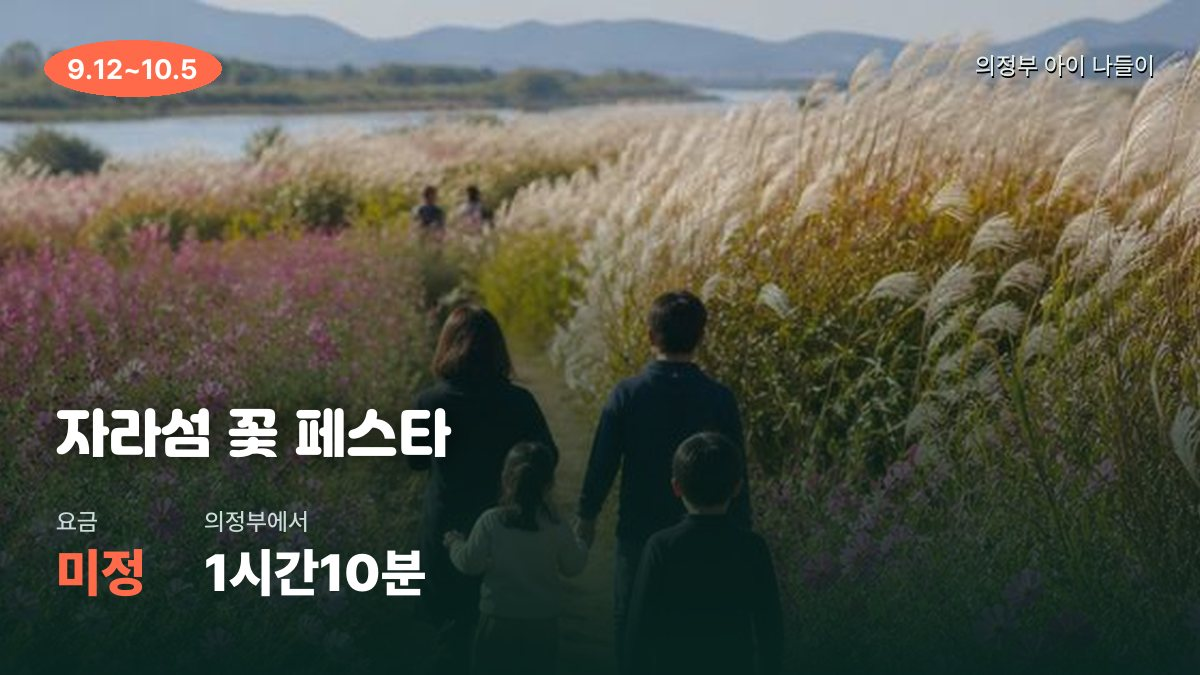
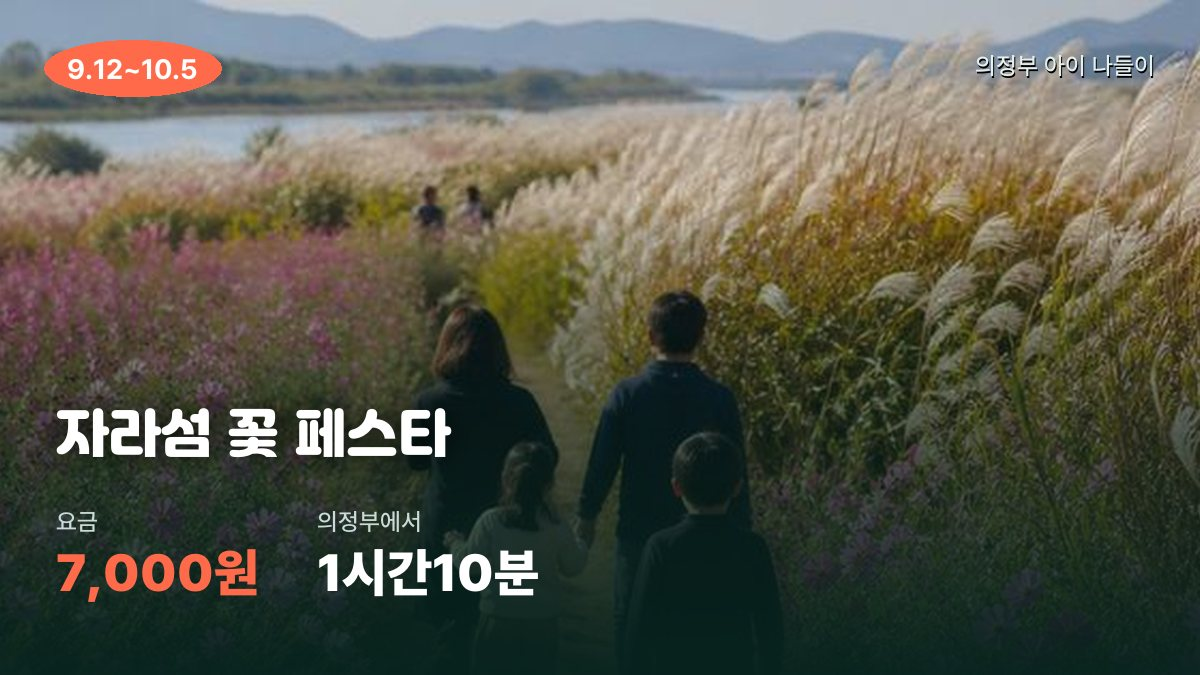
아이 나들이 08-25 — 🔜 예정 행사 18장 신설(관광공사 축제DB 90km 41건 + 의정부 연간행사표) + 카드뉴스 헤더 12장

Changed region(s): [[0.0308, 0.7467, 0.4625, 0.9022]]

diff --git a/ujb-jobs/kids-2026-08-25.html b/ujb-jobs/kids-2026-08-25.html
@@ -1,5 +1,3 @@
-<!doctype html>
-<meta charset="utf-8">
 <title>아이 나들이 브리핑 2026-08-25</title>
 <meta name="viewport" content="width=device-width, initial-scale=1">
 <style>
@@ -140,7 +138,7 @@
   <p class="notice weather">🌦 <b>오늘(화) 24~29℃ · 비 0.7mm · 강수확률 90%대</b> — <b>확률은 높지만 양은 적습니다.</b> 낮 <u>12~14시에 0.1~0.3mm짜리 지나가는 비</u>가 예보돼 있고 오후 4시부터는 그칩니다. 어제(31℃)보다 2도 낮아졌지만 <b>우산은 챙기세요</b>.<br>🌥 <b>내일(수) 24~29℃ · 비 0.1mm · 강수확률 오후 최대 61%</b> — 흐리고 늦은 오후에 소나기가 스칠 수 있는 정도입니다.<br>‼<b>주말 예보가 나빠졌습니다 — 8/29(토) 비 13mm·71%</b>, 8/30(일) 25℃·1.2mm·51%. <u>올해 마지막 물놀이 주말인데 토요일이 비</u>입니다. 야외 물놀이는 <b>일요일(8/30)로 잡고, 토요일은 실내로 돌리는 계획</b>이 안전합니다.</p>
   <p class="notice">📌 <b>오늘 챙길 것 — 어제와 정반대입니다. 무료 실내가 전부 다시 열렸습니다.</b> <em>서울시립과학관 · 로봇AI과학관(RAIM) · 경기북부어린이박물관 · 실학박물관 · 국립과천과학관 · 전곡선사박물관 · 노원 JUMP · 동두천 놀자숲</em>이 어제 월요일 휴관을 끝내고 <b>오늘부터 정상 개관</b>합니다. 낮에 비가 스치는 날이라 <b>실내가 정답</b>입니다.<br>🚫 <b>대신 오늘 닫는 곳 — 추동웰빙공원 물놀이장</b>(<u>화·수 휴장</u>). 어제 "오늘의 정답"이었던 곳이 오늘은 헛걸음입니다. <b>소요산 물놀이장도 화요일 휴장</b>이라, 오늘 무료 물놀이를 하려면 <b>남양주·구리·양주·도봉 동네 물놀이장 40여 곳</b>(월 휴무 → 오늘은 대부분 운영)으로 가야 합니다 — 출발 전 전화 확인 필수.<br>🤖 <b>오늘 추천 코스는 노원 한 동네에서 다 됩니다</b> — 서울시립과학관(무료·25~30분) → 도보권 <b>로봇AI과학관</b> → <b>노원 JUMP</b>. 어제는 셋이 통째로 쉬었지만 오늘은 셋 다 엽니다. 다만 <u>RAIM 상설전은 100% 사전예약</u>(서울공공서비스예약)이라 출발 전에 자리를 잡아야 합니다.<br>💧 <b>물놀이 시즌 카운트다운 — 남은 건 8/29~30 주말 하나뿐</b>인데 <b>토요일에 비 13mm</b>가 잡혔습니다. 소요산·한강·남양주·구리·의정부 물놀이장과 오션월드·캐리비안베이 골드시즌이 <b>8/30~31에 줄줄이 끝납니다</b> — <u>일요일 하루에 몰아넣을 각오로 지금 예매하세요</u>.<br>🎡 <b>오늘부터 다시 여는 것</b> — 웅진플레이도시(어제 8/24 휴장 → 오늘 정상 10:00~17:30) · 키자니아는 8/28(금)까지 <b>통합 운영 10~18시</b>가 이어집니다.<br>🗓 <b>내일(수)은 「문화가 있는 날」</b> — 국립중앙박물관 본관이 <b>21시까지</b> 열고, 노원천문우주과학관 「문화가 있는 천문대」가 있습니다. 비가 애매한 주라 <u>야간 실내 카드</u>로 잡아 두세요.</p>
 
-  <div class="jump"><a href="#free">🆓 무료</a><a href="#sale">🔥 대폭할인</a><a href="#hot">✨ 핫한 곳</a><a href="#fest">🎪 축제·이벤트</a><a href="#top">🏆 TOP5</a><a href="#glance">🗺 한눈에</a></div>
+  <div class="jump"><a href="#free">🆓 무료</a><a href="#sale">🔥 대폭할인</a><a href="#hot">✨ 핫한 곳</a><a href="#fest">🎪 축제·이벤트</a><a href="#soon">🔜 예정</a><a href="#top">🏆 TOP5</a><a href="#glance">🗺 한눈에</a></div>
 
   <h2 class="sec" id="free">🆓 무료</h2>
   <p class="secdesc">지자체 물놀이장·무료 과학관·박물관 — 가까운 순</p>
@@ -686,8 +684,384 @@
     <li><span class="d">서울 '문화로 야금야금'</span> 다음 회차 <b>8/28(금)</b> — 서울역사박물관·시립미술관·한성백제·공예박물관 등 <b>8곳 18~21시 야간개방 무료</b> · <b>나이트 보신각 타종</b>은 <b>8/29(토)</b> 18:40~21:10 <em>(둘 다 오늘은 없습니다)</em></li>
     <li><span class="d">서울숲</span> <b>'한여름밤의 정원극장'</b> — <b>남은 회차는 8/29(토) 하나뿐</b> · 19~21시 야외 가족영화(16시부터 팔찌 배부, 선착순 800명) · <b>서울숲 퀴즈</b>도 8/29 18시(1인 3,000원, 경품) <em>(오늘은 두 행사 모두 없습니다)</em></li>
     <li><span class="d">강릉·속초 해수욕장 — <b>오늘이 폐장일</b></span> (2시간30분) 속초 백사장 <b>미디어아트 '빛의 바다'</b> 야간 · <em>동해·삼척·고성은 8/17에 이미 폐장</em> — <b>올여름 마지막 바다가 오늘입니다</b>. 다만 지금 출발해도 도착이 낮 12시 무렵이라, <u>오늘 안에 결정하려면 <b>8/29(토) 양주관아야 놀자</b> 쪽이 현실적</u>입니다</li>
+    <li><span class="d">8/29(토)~8/30(일) 서초 뮤직앤아트페스티벌</span> (45분) 서초구 일대 <b>무료</b> 음악·예술 축제 — <em>이번 주 새로 확인된 행사</em>. 토요일 비 예보라 <b>8/30(일)</b>이 안전합니다</li>
     <li><span class="d">9월 미리보기</span> 춘천인형극제 9/10~16 · 동두천 락페 9/11~13 · 부천국제만화축제 9/18~20 · 서울국제어린이영화제 9/10~15 · 경복궁 별빛야행 9/2~</li>
   </ul>
+
+  <h2 class="sec" id="soon">🔜 예정 행사 — 9~10월</h2>
+  <p class="secdesc">물놀이가 끝나는 8월 말부터 <b>축제 시즌이 시작</b>됩니다. 관광공사 축제 DB에서 <b>의정부 90km 이내로 추린 41건</b> + 의정부시 연간 행사표에서 골랐고, <b>아이가 직접 할 게 있는 것</b>을 카드로 올렸습니다 · 날짜순</p>
+  <article class="card" data-drive="50">
+    <img class="thumb" src="./img/kids/cn/s3_upcycle.jpg" alt="" loading="lazy">
+    <div class="body">
+      <div class="chips"><span class="chip free">무료</span><span class="chip gray">업사이클 체험</span></div>
+      <h3>새활용 페스티벌</h3>
+      <p class="meta">서울새활용플라자(성동구) · 버려진 것으로 만드는 체험 축제</p>
+      <div class="play"><p class="lab">▸ 뭘 할 수 있나</p><ul>
+        <li>폐자원으로 <b>직접 만들어 가져오는</b> 워크숍이 여러 개 — 11세 환경 수업과 바로 연결</li>
+        <li>7세도 참여 가능한 간단한 만들기 부스가 따로 있다</li>
+        <li>건물 자체가 재활용 주제 전시관이라 <b>비가 와도 실내에서 다 소화</b>된다</li>
+      </ul></div>
+      <dl class="rows">
+        <dt>일정</dt><dd><b>9/4(금)~9/6(일)</b></dd>
+        <dt>요금</dt><dd>무료</dd>
+      </dl>
+      <a class="btn" href="https://korean.visitkorea.or.kr/kfes/list/wntyFstvlList.do">축제 정보 (관광공사)</a>
+    </div>
+  </article>
+  <article class="card" data-drive="45">
+    <img class="thumb" src="./img/kids/cn/s12_jamsu_bridge.jpg" alt="" loading="lazy">
+    <div class="body">
+      <div class="chips"><span class="chip free">무료</span><span class="chip gray">7주간 주말</span></div>
+      <h3>차 없는 잠수교 뚜벅뚜벅축제</h3>
+      <p class="meta">서울 잠수교 · 다리에서 차를 빼고 사람만 걸어다니는 축제</p>
+      <div class="play"><p class="lab">▸ 뭘 할 수 있나</p><ul>
+        <li><b>한강 다리 한복판을 차 없이 걸어본다</b> — 아이들이 제일 신기해하는 포인트</li>
+        <li>기간이 <b>7주로 길어서</b> 날씨 보고 아무 주말이나 고르면 된다</li>
+        <li>반포한강공원과 붙어 있어 <b>돗자리 + 자전거</b>로 하루를 채울 수 있다</li>
+      </ul></div>
+      <dl class="rows">
+        <dt>일정</dt><dd><b>9/6(일)~10/25(일)</b> · 주말마다 · 7주간</dd>
+        <dt>요금</dt><dd>무료 (일부 프로그램 유료)</dd>
+      </dl>
+      <a class="btn" href="https://korean.visitkorea.or.kr/kfes/list/wntyFstvlList.do">축제 정보 (관광공사)</a>
+    </div>
+  </article>
+  <article class="card" data-drive="70">
+    <img class="thumb" src="./img/kids/cn/s4_flower.jpg" alt="" loading="lazy">
+    <div class="body">
+      <div class="chips"><span class="chip">7,000원</span><span class="chip gray">24일간 열림</span></div>
+      <h3>Colorful Garden 자라섬 꽃 페스타</h3>
+      <p class="meta">가평 자라섬 · 섬 전체가 꽃정원 · <b>기간이 길어 날 잡기 쉽다</b></p>
+      <div class="play"><p class="lab">▸ 뭘 할 수 있나</p><ul>
+        <li>넓은 잔디·꽃밭이라 <b>아이가 마음껏 뛰어다닐 수 있다</b> — 유모차·킥보드도 무난</li>
+        <li>가을 억새·코스모스 배경 <b>가족사진</b> 찍기 좋은 시기</li>
+        <li>가는 길에 <b>남이섬·아침고요수목원</b>이 있어 하루 코스로 묶기 좋다</li>
+      </ul></div>
+      <dl class="rows">
+        <dt>일정</dt><dd><b>9/12(토)~10/5(월)</b> · 24일간</dd>
+        <dt>요금</dt><dd><b>7,000원</b> · 가평군민 무료</dd>
+      </dl>
+      <a class="btn" href="https://korean.visitkorea.or.kr/kfes/list/wntyFstvlList.do">축제 정보 (관광공사)</a>
+    </div>
+  </article>
+  <article class="card" data-drive="60">
+    <img class="thumb" src="./img/kids/cn/s9_bucheon_comics.jpg" alt="" loading="lazy">
+    <div class="body">
+      <div class="chips"><span class="chip">5,000원</span><span class="chip gray">11세 강추</span></div>
+      <h3>부천국제만화축제 (BICOF)</h3>
+      <p class="meta">한국만화박물관 일원 · 국내 최대 만화 축제</p>
+      <div class="play"><p class="lab">▸ 뭘 할 수 있나</p><ul>
+        <li><b>한국만화박물관</b>이 축제장 한복판 — 만화 원화 전시·애니 상영관·체험존이 통째로 열린다</li>
+        <li>만화가 <b>실시간 드로잉·사인회</b>가 상시로 돌아간다 — 11세가 가장 좋아할 대목</li>
+        <li><b>사전신청이 40% 싸다</b>(5,000→3,000) — 9월 초에 홈페이지 열리면 미리 결제</li>
+      </ul></div>
+      <dl class="rows">
+        <dt>일정</dt><dd><b>9/18(금)~9/20(일)</b></dd>
+        <dt>요금</dt><dd><b>5,000원</b> · <b>사전신청하면 3,000원</b></dd>
+      </dl>
+      <a class="btn" href="https://korean.visitkorea.or.kr/kfes/list/wntyFstvlList.do">축제 정보 (관광공사)</a>
+    </div>
+  </article>
+  <article class="card" data-drive="45">
+    <img class="thumb" src="./img/kids/cn/s10_goyang_lake.jpg" alt="" loading="lazy">
+    <div class="body">
+      <div class="chips"><span class="chip free">무료</span><span class="chip gray">가까움</span></div>
+      <h3>고양호수예술축제</h3>
+      <p class="meta">일산호수공원 + 일산문화광장 일원 · 거리예술 축제</p>
+      <div class="play"><p class="lab">▸ 뭘 할 수 있나</p><ul>
+        <li><b>거리극·서커스·인형극</b>이 공원 곳곳에서 동시에 벌어진다 — 표를 안 사도 다 볼 수 있다</li>
+        <li>일산호수공원은 <b>자전거·킥보드 대여</b>가 되고 놀이터가 여러 개라 축제와 별개로도 하루가 간다</li>
+        <li>의정부에서 <b>45분</b> — 이 목록에서 손에 꼽게 가깝다</li>
+      </ul></div>
+      <dl class="rows">
+        <dt>일정</dt><dd><b>9/18(금)~9/20(일)</b></dd>
+        <dt>요금</dt><dd>무료</dd>
+      </dl>
+      <a class="btn" href="https://korean.visitkorea.or.kr/kfes/list/wntyFstvlList.do">축제 정보 (관광공사)</a>
+    </div>
+  </article>
+  <article class="card" data-drive="70">
+    <img class="thumb" src="./img/kids/cn/s11_siheung_getgol.jpg" alt="" loading="lazy">
+    <div class="body">
+      <div class="chips"><span class="chip free">무료</span><span class="chip gray">갯벌 체험</span></div>
+      <h3>시흥갯골축제</h3>
+      <p class="meta">시흥갯골생태공원 · 내륙 갯벌 + 옛 소금밭</p>
+      <div class="play"><p class="lab">▸ 뭘 할 수 있나</p><ul>
+        <li><b>소금 만들기(천일염 채취)</b> 체험 — 교과서에서만 보던 염전을 직접 밟는다</li>
+        <li><b>갯벌 생물 관찰</b>과 흙길 걷기 — 여벌 옷·장화는 필수</li>
+        <li><b>22m 흔들전망대</b>에 올라가면 갯골 전체가 내려다보인다</li>
+      </ul></div>
+      <dl class="rows">
+        <dt>일정</dt><dd><b>9/18(금)~9/20(일)</b></dd>
+        <dt>요금</dt><dd>무료 (일부 체험 유료)</dd>
+      </dl>
+      <a class="btn" href="https://korean.visitkorea.or.kr/kfes/list/wntyFstvlList.do">축제 정보 (관광공사)</a>
+    </div>
+  </article>
+  <article class="card" data-drive="90">
+    <img class="thumb" src="./img/kids/cn/s6_media.jpg" alt="" loading="lazy">
+    <div class="body">
+      <div class="chips"><span class="chip free">입장 무료</span><span class="chip gray">야간 18일간</span></div>
+      <h3>수원화성 미디어아트</h3>
+      <p class="meta">수원화성 성곽 일원 · 성벽에 빛을 쏘는 야간 전시</p>
+      <div class="play"><p class="lab">▸ 뭘 할 수 있나</p><ul>
+        <li>성벽·성문에 <b>대형 프로젝션 맵핑</b> — 아이들이 "우와" 하는 스케일</li>
+        <li>8월에 갔던 <b>수원 국가유산 야행</b>과 같은 장소, 다른 연출</li>
+        <li>낮에 <b>화성어차</b>(어린이 2,000원) 타고 성곽 돌고 저녁에 미디어아트로 이어가면 하루 코스</li>
+      </ul></div>
+      <dl class="rows">
+        <dt>일정</dt><dd><b>9/19(토)~10/6(화)</b> · 18일간</dd>
+        <dt>요금</dt><dd>입장료 무료</dd>
+      </dl>
+      <a class="btn" href="https://korean.visitkorea.or.kr/kfes/list/wntyFstvlList.do">축제 정보 (관광공사)</a>
+    </div>
+  </article>
+  <article class="card" data-drive="25">
+    <img class="thumb" src="./img/kids/cn/s7_yangju_flower.jpg" alt="" loading="lazy">
+    <div class="body">
+      <div class="chips"><span class="chip">개장료 확인</span><span class="chip gray">🚗 25분</span></div>
+      <h3>양주 천일홍 가을페스타 (나리농원)</h3>
+      <p class="meta">양주 나리농원(광사동) · <b>천만송이 천일홍 + 핑크뮬리</b> · 이 목록에서 가장 가까운 대형 꽃축제</p>
+      <div class="play"><p class="lab">▸ 뭘 할 수 있나</p><ul>
+        <li><b>천일홍 천만송이</b>가 밭 단위로 깔린다 — 핑크뮬리·댑싸리까지 이어져 사진이 잘 나온다</li>
+        <li>평평한 산책로라 <b>7세도 한 바퀴를 걸어서 돈다</b> · 유모차 가능</li>
+        <li><b>25분</b>이라 오후에 잠깐 다녀오기 좋다 · <b>10/5(월) 마라톤</b> 날은 주차가 막히니 피할 것</li>
+      </ul></div>
+      <dl class="rows">
+        <dt>일정</dt><dd><b>9/26(토)~10/18(일)</b> · 23일간</dd>
+        <dt>요금</dt><dd><em>개장료·주차 미확인 — 9월 중 양주시 공지 확인</em></dd>
+        <dt>주의</dt><dd><em>일정 9/26~10/18은 <b>블로그·지역 매체 다수 일치분</b>이며 양주시 공식 공지로는 아직 미확인입니다</em></dd>
+      </dl>
+      <a class="btn" href="https://www.yangju.go.kr/">양주시청</a>
+    </div>
+  </article>
+  <article class="card" data-drive="70">
+    <img class="thumb" src="./img/kids/cn/s13_sorae.jpg" alt="" loading="lazy">
+    <div class="body">
+      <div class="chips"><span class="chip free">무료</span><span class="chip gray">바다·수산시장</span></div>
+      <h3>소래포구축제</h3>
+      <p class="meta">인천 소래포구 일원 · 항구 전체가 축제장</p>
+      <div class="play"><p class="lab">▸ 뭘 할 수 있나</p><ul>
+        <li><b>맨손 물고기 잡기</b>가 대표 프로그램 — 7세·11세 둘 다 몰입한다</li>
+        <li><b>소래철교</b>(옛 협궤열차 다리) 위를 걸어서 건너본다</li>
+        <li>가는 길 <b>소래습지생태공원</b>의 풍차·염전을 붙이면 반나절이 더 나온다</li>
+      </ul></div>
+      <dl class="rows">
+        <dt>일정</dt><dd><b>10/2(금)~10/4(일)</b></dd>
+        <dt>요금</dt><dd>무료 (일부 체험 유료)</dd>
+      </dl>
+      <a class="btn" href="https://korean.visitkorea.or.kr/kfes/list/wntyFstvlList.do">축제 정보 (관광공사)</a>
+    </div>
+  </article>
+  <article class="card" data-drive="100">
+    <img class="thumb" src="./img/kids/cn/s16_baudeogi.jpg" alt="" loading="lazy">
+    <div class="body">
+      <div class="chips"><span class="chip free">무료</span><span class="chip gray">줄타기 공연</span></div>
+      <h3>안성맞춤 남사당 바우덕이축제</h3>
+      <p class="meta">안성 남사당전수관 일원 · <b>유네스코 등재</b> 남사당놀이</p>
+      <div class="play"><p class="lab">▸ 뭘 할 수 있나</p><ul>
+        <li><b>줄타기(어름)</b>를 코앞에서 본다 — 남사당 여섯 마당을 매일 공연</li>
+        <li><b>버나(접시돌리기)·상모돌리기 체험</b> 부스가 아이 대상으로 따로 있다</li>
+        <li>11세 사회·국악 단원과 바로 연결 · <b>1시간40분</b>이라 아침 일찍 출발할 것</li>
+      </ul></div>
+      <dl class="rows">
+        <dt>일정</dt><dd><b>10/2(금)~10/5(월)</b> · 4일간</dd>
+        <dt>요금</dt><dd>무료</dd>
+      </dl>
+      <a class="btn" href="https://korean.visitkorea.or.kr/kfes/list/wntyFstvlList.do">축제 정보 (관광공사)</a>
+    </div>
+  </article>
+  <article class="card" data-drive="80">
+    <img class="thumb" src="./img/kids/cn/s8_chuncheon_toy.jpg" alt="" loading="lazy">
+    <div class="body">
+      <div class="chips"><span class="chip free">무료</span><span class="chip gray">아이 최적</span></div>
+      <h3>춘천애니토이페스티벌</h3>
+      <p class="meta">춘천 애니메이션박물관·토이로봇관 일원 · <b>이 목록에서 아이 적합도 1위</b></p>
+      <div class="play"><p class="lab">▸ 뭘 할 수 있나</p><ul>
+        <li><b>애니메이션박물관 + 토이로봇관</b>이 축제 기간 통째로 무료 개방된다</li>
+        <li><b>로봇 조종·코딩 체험</b>과 장난감 전시 — 7세는 장난감, 11세는 로봇으로 갈린다</li>
+        <li>축제장이 <b>의암호 옆</b>이라 끝나고 물가 산책·레일바이크로 이어진다</li>
+      </ul></div>
+      <dl class="rows">
+        <dt>일정</dt><dd><b>10/3(토)~10/5(월)</b> · 추석 연휴</dd>
+        <dt>요금</dt><dd>무료</dd>
+      </dl>
+      <a class="btn" href="https://korean.visitkorea.or.kr/kfes/list/wntyFstvlList.do">축제 정보 (관광공사)</a>
+    </div>
+  </article>
+  <article class="card" data-drive="90">
+    <img class="thumb" src="./img/kids/cn/s14_suwon_hwaseong.jpg" alt="" loading="lazy">
+    <div class="body">
+      <div class="chips"><span class="chip free">무료</span><span class="chip gray">8일간</span></div>
+      <h3>수원화성문화제</h3>
+      <p class="meta">수원화성 + 행궁광장 · 정조대왕 능행차 재현</p>
+      <div class="play"><p class="lab">▸ 뭘 할 수 있나</p><ul>
+        <li><b>정조대왕 능행차</b> — 수백 명 규모의 행렬이 도심을 지나간다</li>
+        <li>무예24기 시범·야간 성곽 개방 등 <b>프로그램이 8일 내내</b> 다르다</li>
+        <li>9월 <b>수원화성 미디어아트</b>와 같은 장소 — 둘 중 하나만 골라도 된다</li>
+      </ul></div>
+      <dl class="rows">
+        <dt>일정</dt><dd><b>10/4(일)~10/11(일)</b> · 8일간</dd>
+        <dt>요금</dt><dd>무료 (일부 사전예약 프로그램 유료)</dd>
+      </dl>
+      <a class="btn" href="https://korean.visitkorea.or.kr/kfes/list/wntyFstvlList.do">축제 정보 (관광공사)</a>
+    </div>
+  </article>
+  <article class="card" data-drive="10">
+    <img class="thumb" src="./img/kids/cn/s1_hoeryong.jpg" alt="" loading="lazy">
+    <div class="body">
+      <div class="chips"><span class="chip free">무료</span><span class="chip gray">우리 동네</span></div>
+      <h3>제41회 회룡문화제</h3>
+      <p class="meta">의정부 대표 문화축제 · 개막행사 + 체험 부스 · 장소는 추후 공지</p>
+      <div class="play"><p class="lab">▸ 뭘 할 수 있나</p><ul>
+        <li>의정부에서 가장 큰 지역 축제 — <b>체험 부스가 대규모</b>로 깔린다</li>
+        <li>집에서 10분이라 <b>오후에 잠깐 다녀오기</b> 좋은 규모</li>
+        <li>같은 주 <b>10/9 한글한복 패션쇼</b>(상설야외무대)도 무료</li>
+      </ul></div>
+      <dl class="rows">
+        <dt>일정</dt><dd><b>10/9(금)~10/10(토)</b> · 장소 미정 — 9월 중 시청 공지 확인</dd>
+        <dt>요금</dt><dd>무료</dd>
+        <dt>문의</dt><dd>의정부시 문화예술과 031-828-4332</dd>
+      </dl>
+      <a class="btn" href="https://www.ui4u.go.kr/portal/contents.do?mId=0301170000">의정부시 연간 행사표</a>
+    </div>
+  </article>
+  <article class="card" data-drive="70">
+    <img class="thumb" src="./img/kids/cn/s15_incheon_yahaeng.jpg" alt="" loading="lazy">
+    <div class="body">
+      <div class="chips"><span class="chip free">무료</span><span class="chip gray">야간</span></div>
+      <h3>인천개항장 국가유산야행</h3>
+      <p class="meta">인천 개항장(제물포) 일원 · 100년 된 서양식 건물들의 야간 개방</p>
+      <div class="play"><p class="lab">▸ 뭘 할 수 있나</p><ul>
+        <li><b>근대 건축물이 밤에 통째로 열린다</b> — 낮에는 못 들어가는 곳까지</li>
+        <li><b>등불 들고 걷는 야행 코스</b>가 정해져 있어 아이가 지루해하지 않는다</li>
+        <li>차이나타운·월미도와 붙어 있어 <b>낮부터 붙여서</b> 하루 코스</li>
+      </ul></div>
+      <dl class="rows">
+        <dt>일정</dt><dd><b>10/9(금)~10/11(일)</b> · 밤 행사</dd>
+        <dt>요금</dt><dd>무료</dd>
+      </dl>
+      <a class="btn" href="https://korean.visitkorea.or.kr/kfes/list/wntyFstvlList.do">축제 정보 (관광공사)</a>
+    </div>
+  </article>
+  <article class="card" data-drive="60">
+    <img class="thumb" src="./img/kids/cn/s5_prehistory.jpg" alt="" loading="lazy">
+    <div class="body">
+      <div class="chips"><span class="chip free">무료</span><span class="chip gray">교육형</span></div>
+      <h3>강동선사문화축제</h3>
+      <p class="meta">서울 강동구 암사동 유적 일원 · 문화관광축제 지정</p>
+      <div class="play"><p class="lab">▸ 뭘 할 수 있나</p><ul>
+        <li><b>암사동 선사유적</b>에서 열려 움집·토기·불피우기 같은 <b>선사 체험</b>이 축제 규모로 펼쳐진다</li>
+        <li>연천 전곡선사박물관을 좋아했다면 <b>같은 결의 상위 버전</b></li>
+        <li>11세 한국사(신석기) 단원과 직결 · 7세는 만들기 부스 위주</li>
+      </ul></div>
+      <dl class="rows">
+        <dt>일정</dt><dd><b>10/16(금)~10/18(일)</b></dd>
+        <dt>요금</dt><dd>무료 (먹거리는 개별 구매)</dd>
+      </dl>
+      <a class="btn" href="https://korean.visitkorea.or.kr/kfes/list/wntyFstvlList.do">축제 정보 (관광공사)</a>
+    </div>
+  </article>
+  <article class="card" data-drive="90">
+    <img class="thumb" src="./img/kids/cn/s17_yeoju_ogok.jpg" alt="" loading="lazy">
+    <div class="body">
+      <div class="chips"><span class="chip free">무료</span><span class="chip gray">수확 체험</span></div>
+      <h3>여주오곡나루축제</h3>
+      <p class="meta">여주 신륵사 관광지 남한강변 · 가을 수확 축제</p>
+      <div class="play"><p class="lab">▸ 뭘 할 수 있나</p><ul>
+        <li><b>고구마·밤·땅콩 캐기</b>와 탈곡 체험 — 손으로 하는 게 많다</li>
+        <li><b>가마솥 밥짓기·떡메치기</b> 같은 옛날 방식 체험이 축제의 축</li>
+        <li><b>신륵사</b>와 강변 산책로가 붙어 있어 체험 뒤 쉬어 가기 좋다</li>
+      </ul></div>
+      <dl class="rows">
+        <dt>일정</dt><dd><b>10/23(금)~10/25(일)</b></dd>
+        <dt>요금</dt><dd>무료</dd>
+      </dl>
+      <a class="btn" href="https://korean.visitkorea.or.kr/kfes/list/wntyFstvlList.do">축제 정보 (관광공사)</a>
+    </div>
+  </article>
+  <article class="card" data-drive="10">
+    <img class="thumb" src="./img/kids/cn/s2_budae.jpg" alt="" loading="lazy">
+    <div class="body">
+      <div class="chips"><span class="chip free">무료시식</span><span class="chip gray">우리 동네</span></div>
+      <h3>제19회 의정부부대찌개축제</h3>
+      <p class="meta">부대찌개거리 일원 · 공연 + 무료시식회 + 상권 이벤트</p>
+      <div class="play"><p class="lab">▸ 뭘 할 수 있나</p><ul>
+        <li><b>무료시식회</b>가 메인 — 점심 시간대를 노려서 가면 줄이 짧다</li>
+        <li>공연·이벤트가 이어져 <b>아이 데리고 한 바퀴 돌기</b> 좋다</li>
+        <li>같은 날 <b>모잇나?! 가을운동회</b>(세대통합 운동회)·<b>녹양평 문화축제</b>도 열린다 — 하루씩 나눠도 된다</li>
+      </ul></div>
+      <dl class="rows">
+        <dt>일정</dt><dd><b>10/24(토)~10/25(일)</b></dd>
+        <dt>요금</dt><dd>무료 (시식 무료)</dd>
+        <dt>문의</dt><dd>의정부시 일자리경제과 031-928-6528</dd>
+      </dl>
+      <a class="btn" href="https://www.ui4u.go.kr/portal/contents.do?mId=0301170000">의정부시 연간 행사표</a>
+    </div>
+  </article>
+  <article class="card" data-drive="15">
+    <img class="thumb" src="./img/kids/cn/s18_ujb_stamp.jpg" alt="" loading="lazy">
+    <div class="body">
+      <div class="chips"><span class="chip free">무료</span><span class="chip gray">두 달 내내</span></div>
+      <h3>의정부8경 스탬프투어</h3>
+      <p class="meta">망월사 외 7개소 · <b>9~10월 두 달 내내</b> · 우리 동네를 도장 찍으며 도는 놀이</p>
+      <div class="play"><p class="lab">▸ 뭘 할 수 있나</p><ul>
+        <li><b>8곳을 도장 찍으며 도는 방식</b> — 목표가 생기니 아이가 걷는 걸 덜 지루해한다</li>
+        <li>한 번에 다 안 돌아도 된다 — <b>주말마다 한두 곳씩</b> 두 달에 걸쳐 채운다</li>
+        <li>망월사·회룡사처럼 <b>차 대고 20분 오르는 코스</b>부터 평지까지 섞여 있어 컨디션 따라 고르면 된다</li>
+      </ul></div>
+      <dl class="rows">
+        <dt>일정</dt><dd><b>9/1~10/31</b> · 두 달 상시</dd>
+        <dt>요금</dt><dd>무료</dd>
+        <dt>문의</dt><dd>의정부시 문화예술과 031-828-4353</dd>
+      </dl>
+      <a class="btn" href="https://www.ui4u.go.kr/portal/contents.do?mId=0301170000">의정부시 연간 행사표</a>
+    </div>
+  </article>
+
+  <p class="lab" style="margin:26px 0 8px">🏠 의정부 시내 — 차로 10분 안 (시청 연간 행사표)</p>
+  <ul class="plain">
+    <li><span class="d">9/2~3</span> <b>송산2동 나눔장터</b> — 다리목근린공원 · 나눔장터 + 자원회수 캠페인</li>
+    <li><span class="d">9/11~12</span> <b>제5회 민락맥주축제</b> — 민락2지구 로데오광장 · 공연 + 상권 이벤트</li>
+    <li><span class="d">9/19</span> <b>시립소년소녀합창단 정기공연</b> — 의정부예술의전당 대극장</li>
+    <li><span class="d">9/30</span> <b>제10회 영유아 체험전</b> — 의정부종합운동장 · <b>미니운동회 + 놀이 체험 부스</b></li>
+    <li><span class="d">10/3</span> <b>제9회 동오마을축제</b> — 신곡2동 동오마을 · 공연 + 체험 부스</li>
+    <li><span class="d">10/16</span> <b>업사이클링 페스티벌 「폐자원의 인공호흡」</b> — 다리목근린공원 · <b>탄소중립 체험 + 플리마켓</b></li>
+    <li><span class="d">10/16~17</span> <b>제8회 BMF</b> — 의정부예술의전당 · 힙합 페스티벌 (11세용)</li>
+    <li><span class="d">10/17</span> <b>2026 물길마라톤 / 송3 어울림 한마당</b> — 중랑천 일원 / 민락2지구 로데오광장</li>
+    <li><span class="d">10/24</span> <b>모잇나?! 가을운동회</b> — 의정부도시교육재단 · <b>세대통합 시민참여 운동회</b></li>
+    <li><span class="d">10/24</span> <b>2026 녹양평 문화축제</b> — 녹양역 서부광장 · 공연·체험·플리마켓</li>
+    <li><span class="d">10/31</span> <b>2026 어울림 하천 걷기대회</b> — 백석천 일원 · 장애인·비장애인 함께 걷기</li>
+  </ul>
+
+  <p class="lab" style="margin:26px 0 8px">🚗 그 밖의 90km 이내 축제 — 관광공사 축제 DB 확인분</p>
+  <ul class="plain">
+    <li><span class="d">9/2~10/24</span> <b>경복궁 별빛야행</b> <span class="tip">🚗 45분</span> — <b>유료 60,000원</b> · 성인 대상</li>
+    <li><span class="d">9/5~6</span> <b>화성송산포도축제</b> <span class="tip">🚗 1시간50분</span> — 무료 · 포도따기 체험</li>
+    <li><span class="d">9/9~10/18</span> <b>덕수궁 밤의 석조전</b> <span class="tip">🚗 45분</span> — <b>유료 35,000원</b></li>
+    <li><span class="d">9/12~13</span> <b>노원수제맥주축제</b> <span class="tip">🚗 25분</span> — 무료 · <b>가장 가까움(25분)</b></li>
+    <li><span class="d">9/12</span> <b>동대문구 북 페스티벌</b> <span class="tip">🚗 45분</span> — 무료 · 책 축제</li>
+    <li><span class="d">9/12~13</span> <b>처인성문화제(용인)</b> <span class="tip">🚗 1시간30분</span> — 무료 · 일부 체험 유료</li>
+    <li><span class="d">9/18~20</span> <b>광주시 남한산성문화제</b> <span class="tip">🚗 1시간</span> — 무료 · <b>성곽 + 역사 체험</b></li>
+    <li><span class="d">9/18~20</span> <b>과천공연예술축제</b> <span class="tip">🚗 1시간</span> — 무료 · <b>거리공연 중심</b></li>
+    <li><span class="d">9/18~20</span> <b>안양춤축제</b> <span class="tip">🚗 1시간</span> — 무료</li>
+    <li><span class="d">9/19~20</span> <b>인천 독서대전</b> <span class="tip">🚗 1시간10분</span> — 무료</li>
+    <li><span class="d">9/19~20</span> <b>안산 대부포도축제</b> <span class="tip">🚗 1시간30분</span> — 무료 · 포도따기</li>
+    <li><span class="d">9/19~20</span> <b>서리풀뮤직페스티벌 / 청춘 커피페스티벌</b> <span class="tip">🚗 45분</span> — 서초 / 송파 · 무료</li>
+    <li><span class="d">9/24~10/4</span> <b>창경궁 야연</b> <span class="tip">🚗 45분</span> — 유료 · 일부 공연 무료</li>
+    <li><span class="d">10/2~5</span> <b>강남페스티벌</b> <span class="tip">🚗 45분</span> — 무료</li>
+    <li><span class="d">10/2~4</span> <b>부평풍물대축제</b> <span class="tip">🚗 1시간</span> — 무료 · 풍물 퍼레이드</li>
+    <li><span class="d">10/3~4</span> <b>정조효문화제(화성)</b> <span class="tip">🚗 1시간30분</span> — 무료</li>
+    <li><span class="d">10/4</span> <b>금천시흥행궁문화제</b> <span class="tip">🚗 1시간</span> — 무료</li>
+    <li><span class="d">10/7~11</span> <b>횡성한우축제</b> <span class="tip">🚗 1시간50분</span> — 무료 입장 · 먹거리 별도</li>
+    <li><span class="d">10/9~11</span> <b>시흥월곶포구축제</b> <span class="tip">🚗 1시간10분</span> — 무료</li>
+    <li><span class="d">10/14~18</span> <b>춘천막국수닭갈비축제</b> <span class="tip">🚗 1시간30분</span> — 무료</li>
+    <li><span class="d">10/16~18</span> <b>관악강감찬축제</b> <span class="tip">🚗 1시간</span> — 무료</li>
+    <li><span class="d">10/17</span> <b>금천하모니축제</b> <span class="tip">🚗 1시간</span> — 무료</li>
+    <li><span class="d">10/31~11/1</span> <b>고양행주한우 숯불구이축제</b> <span class="tip">🚗 45분</span> — 무료 입장</li>
+  </ul>
+  <p class="notice">🔎 위 목록은 <b>관광공사 「대한민국 구석구석」 축제 DB 8~11월 410건</b>을 받아 의정부 시청 좌표에서 <b>직선 90km(≒ 차로 2시간30분)</b> 안으로 자른 <b>41건</b>이 원본입니다. 요금·일정은 DB 등록값이며 <b>개막 직전에 바뀌는 경우가 있어 출발 전 공식 공지를 한 번 더 보세요</b>. <em>⏳ 아직 공식 발표 전이라 못 넣은 것 — 구리 코스모스축제(2025년은 9/26~28) · 남양주 슬로라이프페스티벌 · 동두천 가을축제</em></p>
+
 
   <h2 class="sec" id="top">🏆 오늘 TOP 5 (화요일 · 29℃ · 낮에 지나가는 비)</h2>
 <ol class="top">
